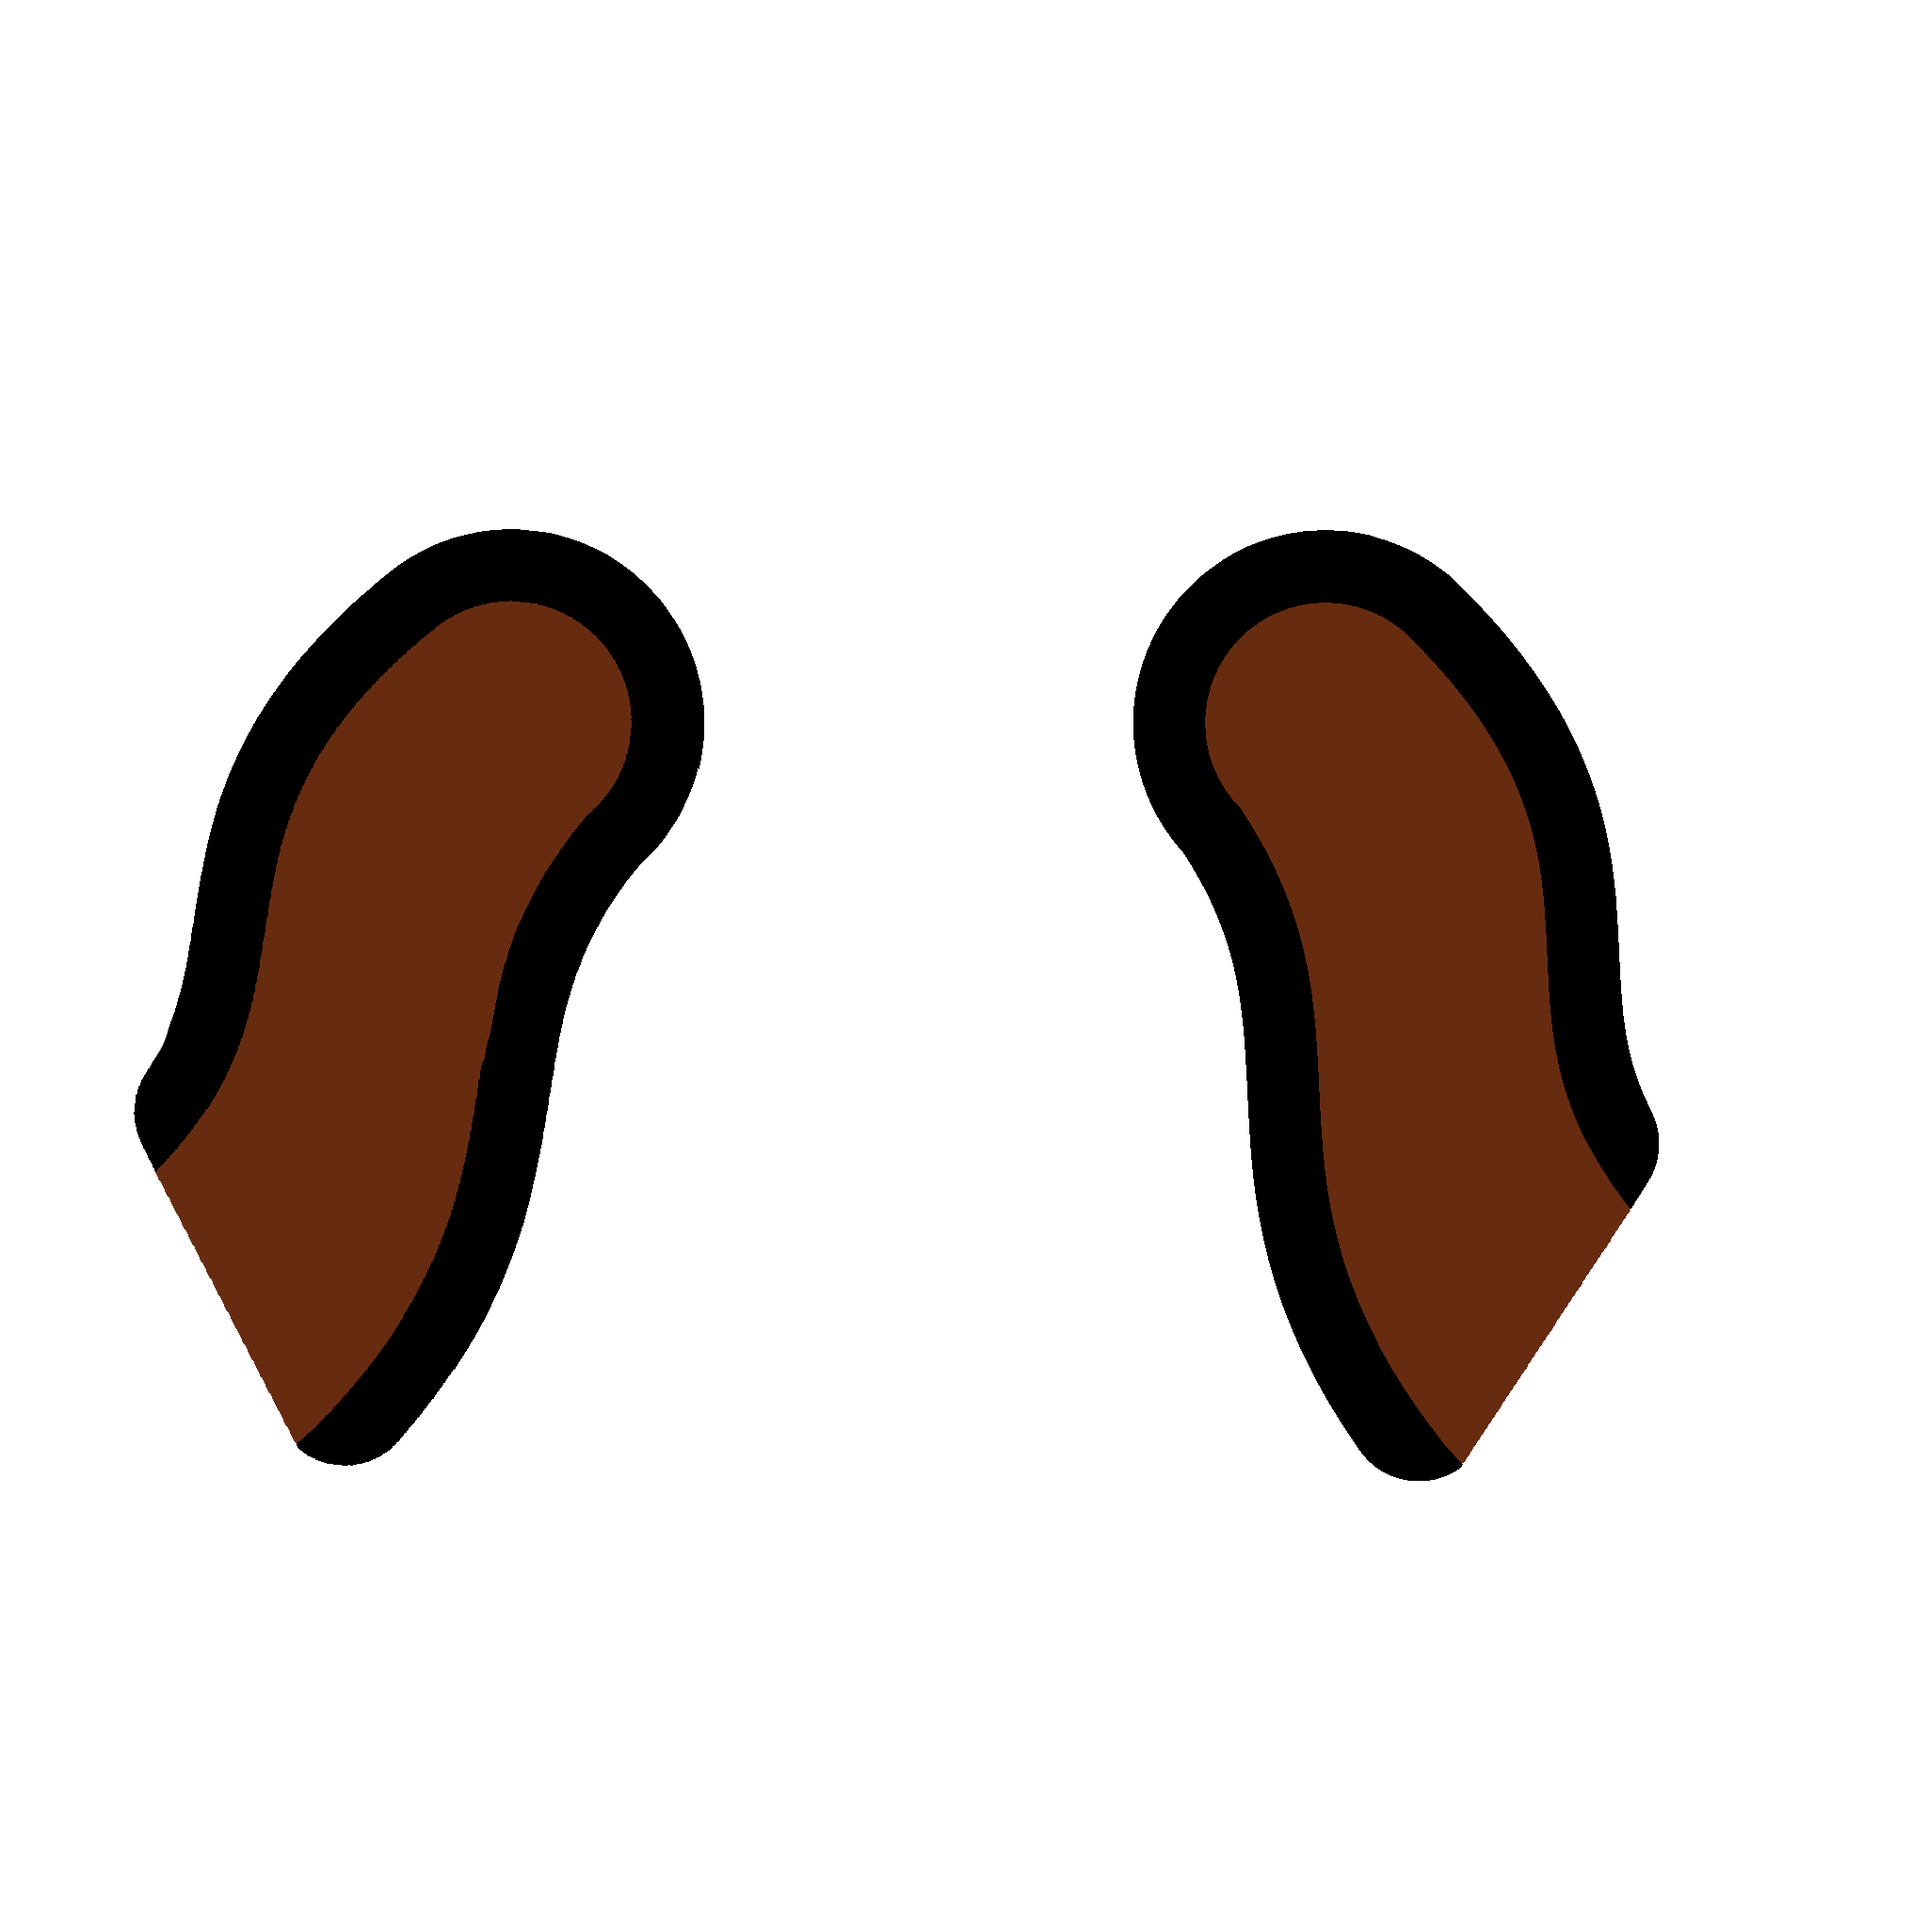
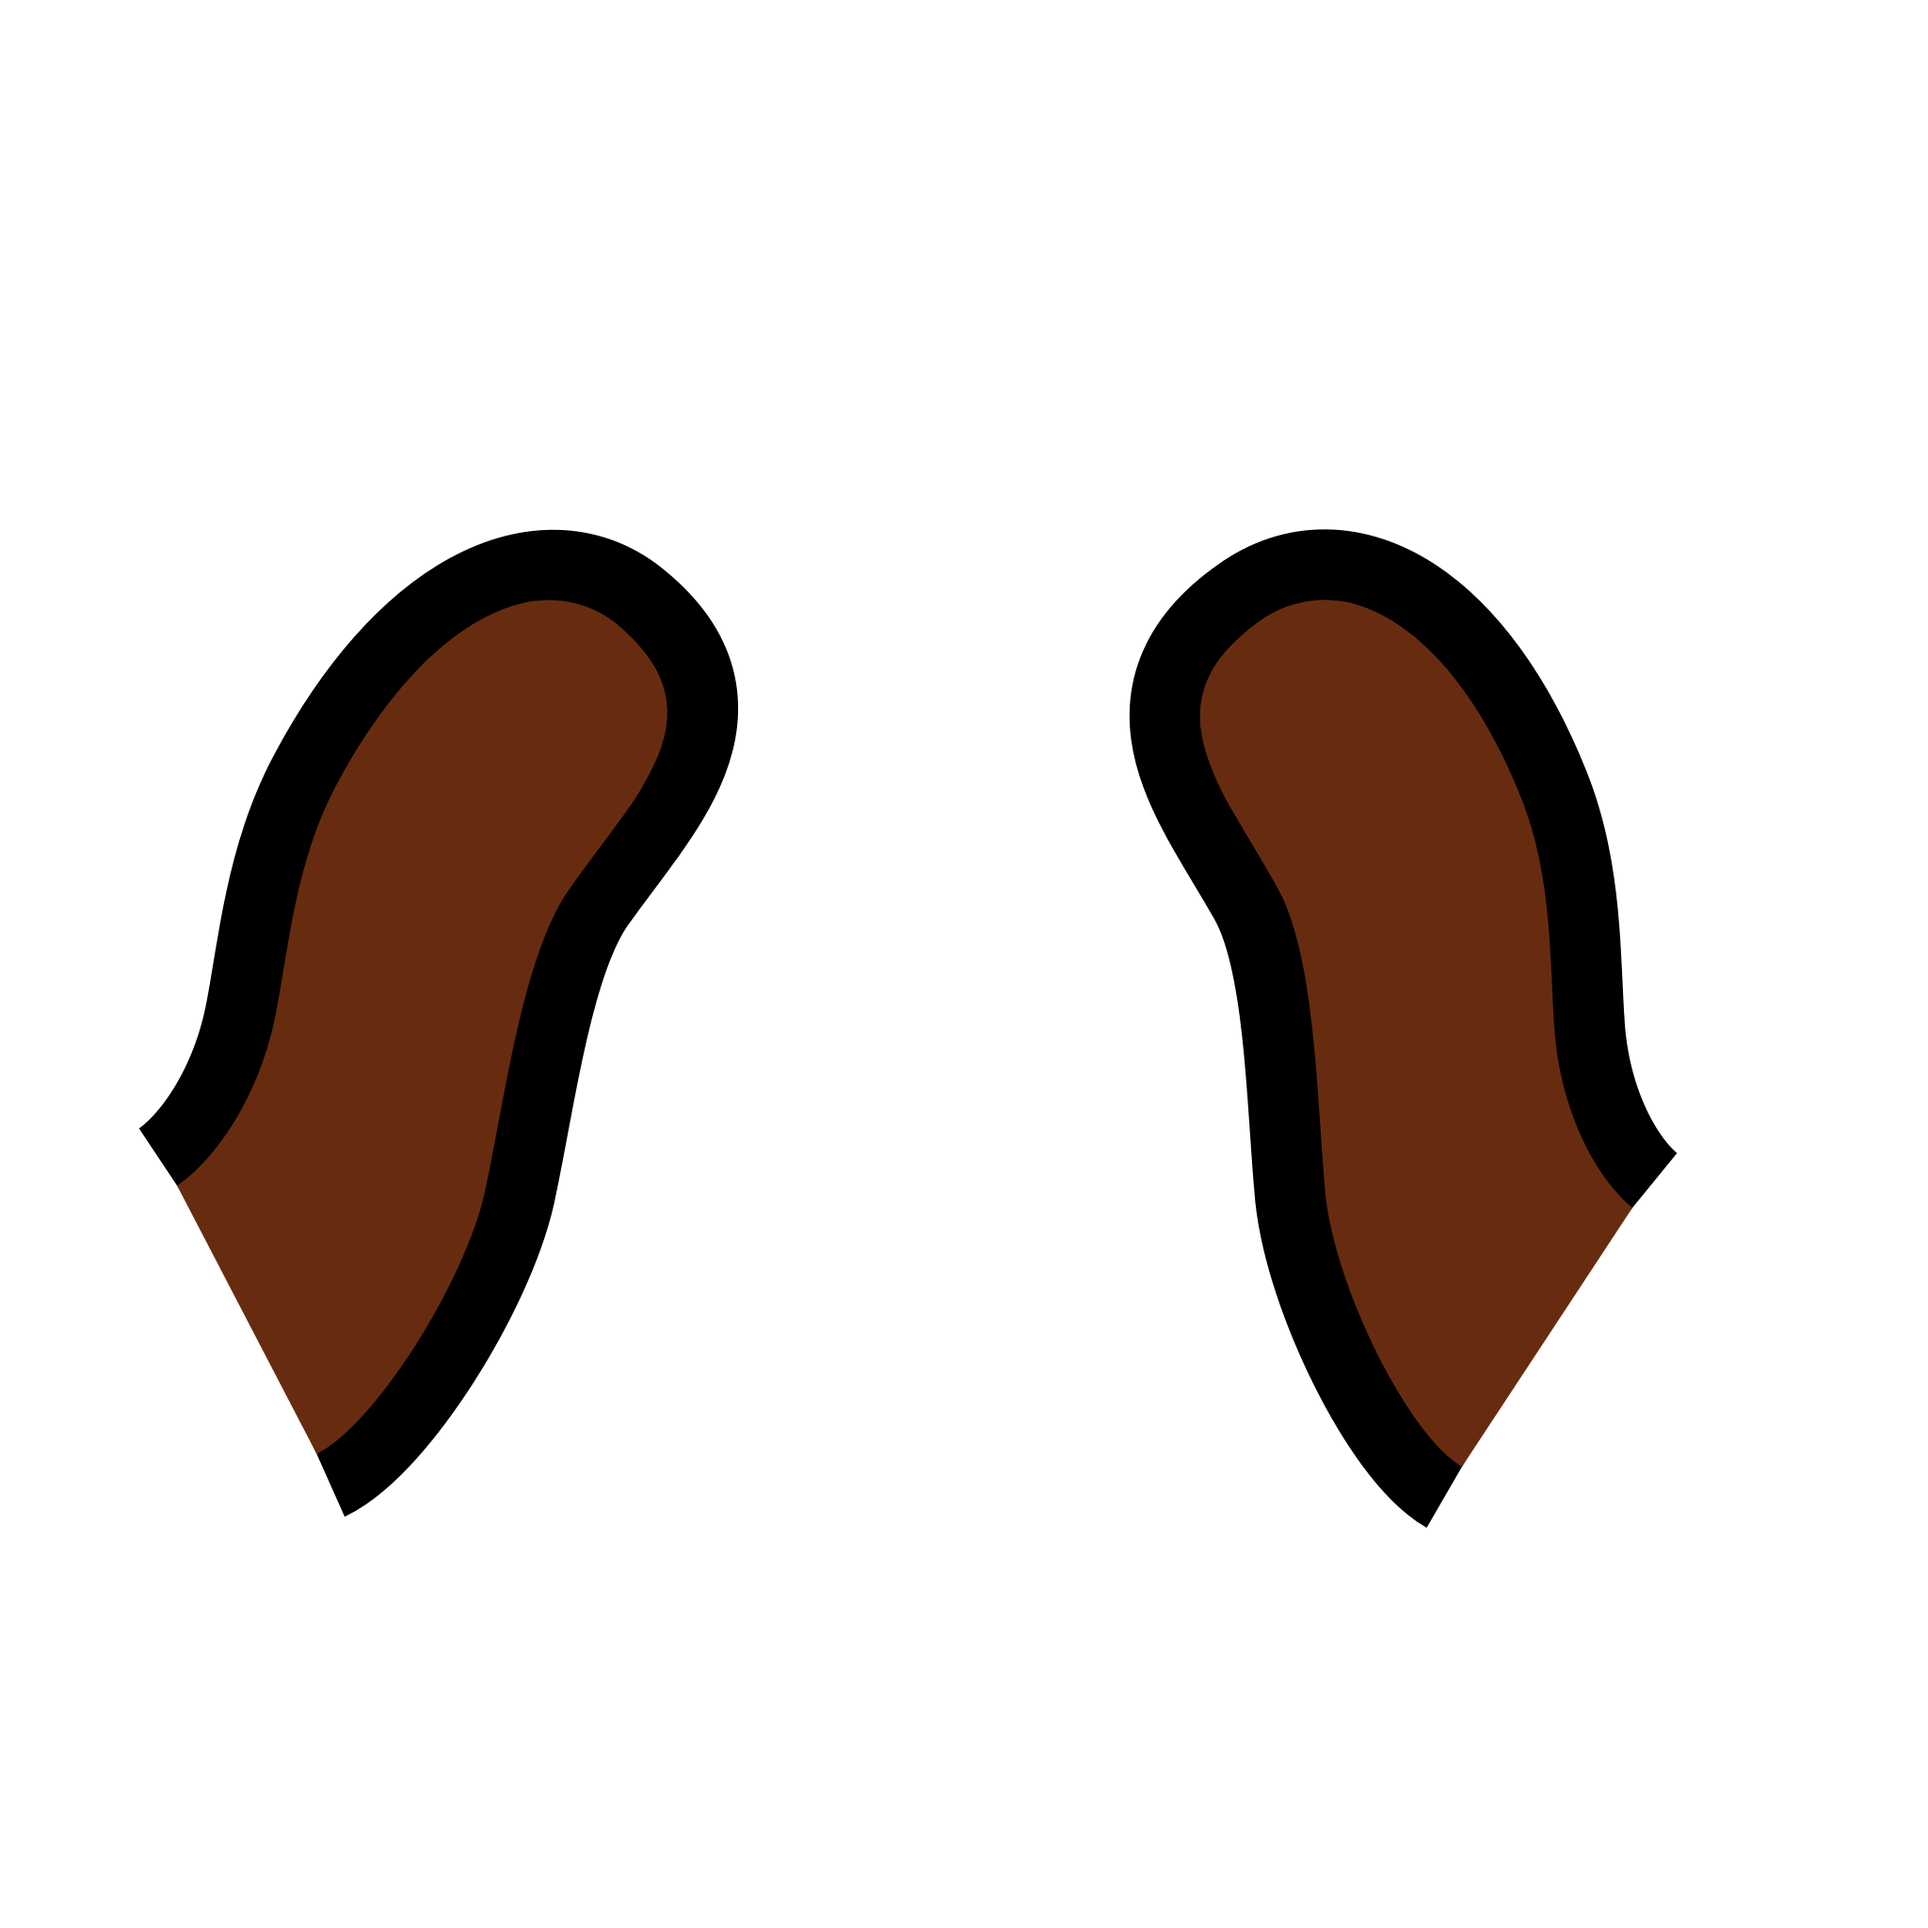
Switch arms_shocked to new svg for high-res and mouse support

diff --git a/python/recolor_arms.py b/python/recolor_arms.py
@@ -49,17 +49,17 @@ color_dict = {
 }
 
 location = "arms"
-part_name = "vulcan"
+part_name = "shocked"
 
 with open("new_parts.txt", "w") as new_parts:
   for color, palette in color_dict.items():
       # print(f"{color}, {fill}, {stroke}")
       new_parts.write(f"""
-      {{
+        {{
           "name": "{part_name}",
           "url": "/parts/{location}_{part_name}_{color}.png",
           "color": "{color}"
-      }},""")
+        }},""")
       tree = ET.parse(f"high-res-parts/svg/{location}_{part_name}.svg")
       style = tree.find(".//{http://www.w3.org/2000/svg}style")
       style.text = re.sub(r"\.fur{fill:\#[0-9a-f]{3,8}}", f".fur{{fill:{palette.fur}}}", style.text)
